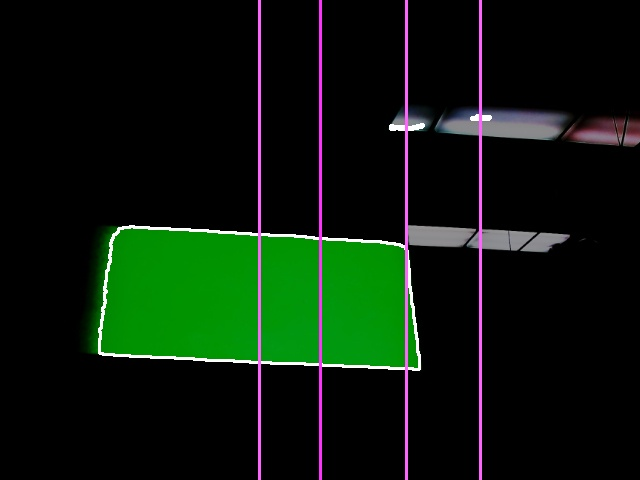
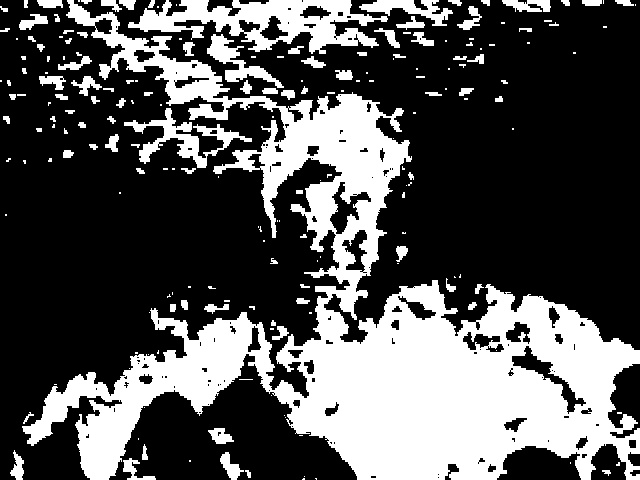
added mask toggle

diff --git a/templates/index.html b/templates/index.html
@@ -1,6 +1,6 @@
 <html>
   <head>
-    <title>Pi Video Surveillance</title>
+    <title>Trident Target Tracking</title>
   </head>
   <body>
     <h1>Pi Video Surveillance</h1>

diff --git a/cameraCalibration.py b/cameraCalibration.py
@@ -50,6 +50,7 @@ class Window(QWidget):
         self.config['bri'] = 0
         self.config['sat'] = 0
         self.config['con'] = 0
+        self.config['tog'] = 0
         
         vbox = QVBoxLayout()
 
@@ -107,6 +108,10 @@ class Window(QWidget):
         self.con_slider = QSlider(Qt.Horizontal)
         self.con_value_label = QLabel(str(self.config['con']))
         vbox.addWidget(self.configureSlider("Contrast", 0 , 255, self.config['con'], 5, self.conChanged, self.con_slider, self.con_value_label))
+        
+        self.tog_slider = QSlider(Qt.Horizontal)
+        self.tog_value_label = QLabel(str(self.config['tog']))
+        vbox.addWidget(self.configureSlider("Mask Toggle", 0, 2, self.config['tog'], 5, self.togChanged, self.tog_slider, self.tog_value_label))
 
 
         v = open("cameraSnapNum.csv","w+")
@@ -178,6 +183,8 @@ class Window(QWidget):
         self.v_max_slider.setValue(self.config['vmax'])
         self.bri_slider.setValue(self.config['bri'])
         self.con_slider.setValue(self.config['con'])
+        self.tog_slider.setValue(self.config['tog'])
+
     def returnBtnPress(self):
         return btnPress
 
@@ -208,6 +215,10 @@ class Window(QWidget):
     def hMaxChanged(self):
         self.updateSliderValue('hmax', self.h_max_slider, self.h_max_value_label)
 
+    def togChanged(self):
+        self.updateSliderValue('tog', self.tog_slider, self.tog_value_label)
+
+
     def sMinChanged(self):
         self.updateSliderValue('smin', self.s_min_slider, self.s_min_value_label)
 
@@ -232,6 +243,8 @@ class Window(QWidget):
         f.write("\n" +  "bri," + str(self.config['bri']))
         f.write("\n" +  "sat," + str(self.config['sat']))
         f.write("\n" +  "con," + str(self.config['con']))
+        f.write("\n" +  "tog," + str(self.config['tog']))
+
         f.close()
 
     def updateSliderValue(self, key, slider, value_label):

diff --git a/Processor.py b/Processor.py
@@ -13,7 +13,7 @@ class Processor:
     def __init__(self, width=640, height=480, debug=False):
         super().__init__()
 
-        self.ipAddress = "10.42.96.55"
+        self.ipAddress = "192.168.1.159"
         self.socketAddress = "5555"
         self.port = "8080"
         self.frameCounter = 5
@@ -26,6 +26,7 @@ class Processor:
         self.distance = 0
         self.inchesE = 0
         self.error = 0
+
 
         self.snapArray = []
 
@@ -64,6 +65,7 @@ class Processor:
         self.bri = configArray[7]
         self.sat = configArray[8]
         self.con = configArray[9]
+        self.tog = configArray[10]
 
         self.count = self.snapArray[0]
         self.frameCounter = self.snapArray[1]
@@ -91,6 +93,7 @@ class Processor:
         self.bri = config['bri']
         self.sat = config['sat']
         self.con = config['con']
+        self.tog = config['tog']
 
 
     def get_config(self):
@@ -105,6 +108,7 @@ class Processor:
         theConfig['bri'] = self.bri
         theConfig['sat'] = self.sat
         theConfig['con'] = self.con
+        theConfig['tog'] = self.tog
 
 
         return theConfig
@@ -160,7 +164,7 @@ class Processor:
 
         furthestLeft = [0, 0]
         furthestRight = [0, 0]
-        _, contours, hierarchy = cv2.findContours(blur, cv2.RETR_EXTERNAL, cv2.CHAIN_APPROX_SIMPLE)
+        contours, hierarchy = cv2.findContours(blur, cv2.RETR_EXTERNAL, cv2.CHAIN_APPROX_SIMPLE)
         cv2.drawContours(inimg, contours, -1, (255, 255, 255), 2)
         cv2.line(inimg, (320,0), (320,1000), (255, 50, 255), 2)
 
@@ -199,8 +203,12 @@ class Processor:
 
 
 
-
-        return inimg
+        if self.tog == 0:
+            return inimg
+        elif self.tog == 1: 
+            return mask
+        else:
+            return blur
 
 
         # hsv = cv2.cvtColor(inimg, cv2.COLOR_BGR2HSV)

diff --git a/pystreamer.py b/pystreamer.py
@@ -34,7 +34,7 @@ socket.bind("tcp://*:" + socketAddress)
 
 ctx = zmq.Context()
 s = context.socket(zmq.PUB)
-s.bind("tcp://*:5556")
+s.bind("tcp://*:5557")
 print("Test")
 
 visionSocket = context.socket(zmq.SUB)
@@ -55,18 +55,18 @@ app = Flask(__name__)
 #vs = VideoStream(usePiCamera=1).start()
 vs = cv2.VideoCapture(0)
 #vs.set(240, 180)
-os.system("v4l2-ctl --set-ctrl=exposure_auto=1")
-time.sleep(1)
-os.system("v4l2-ctl --set-ctrl=gain=16")
-time.sleep(1)
-os.system("v4l2-ctl --set-ctrl=brightness=0")
-time.sleep(1)
-os.system("v4l2-ctl --set-ctrl=contrast=255")
-time.sleep(1)
-os.system("v4l2-ctl --set-ctrl=saturation=255")
-time.sleep(1)
-os.system("v4l2-ctl --set-ctrl=exposure_absolute=30")
-time.sleep(2)
+# os.system("v4l2-ctl --set-ctrl=exposure_auto=1")
+# time.sleep(1)
+# os.system("v4l2-ctl --set-ctrl=gain=16")
+# time.sleep(1)
+# os.system("v4l2-ctl --set-ctrl=brightness=0")
+# time.sleep(1)
+# os.system("v4l2-ctl --set-ctrl=contrast=255")
+# time.sleep(1)
+# os.system("v4l2-ctl --set-ctrl=saturation=255")
+# time.sleep(1)
+# os.system("v4l2-ctl --set-ctrl=exposure_absolute=30")
+# time.sleep(2)
 # vs.set(cv2.CAP_PROP_BRIGHTNESS, -0.0000000000001);
 
 # vs.set(cv2.cv.CV_CAP_PROP_FRAME_WIDTH, 320);
